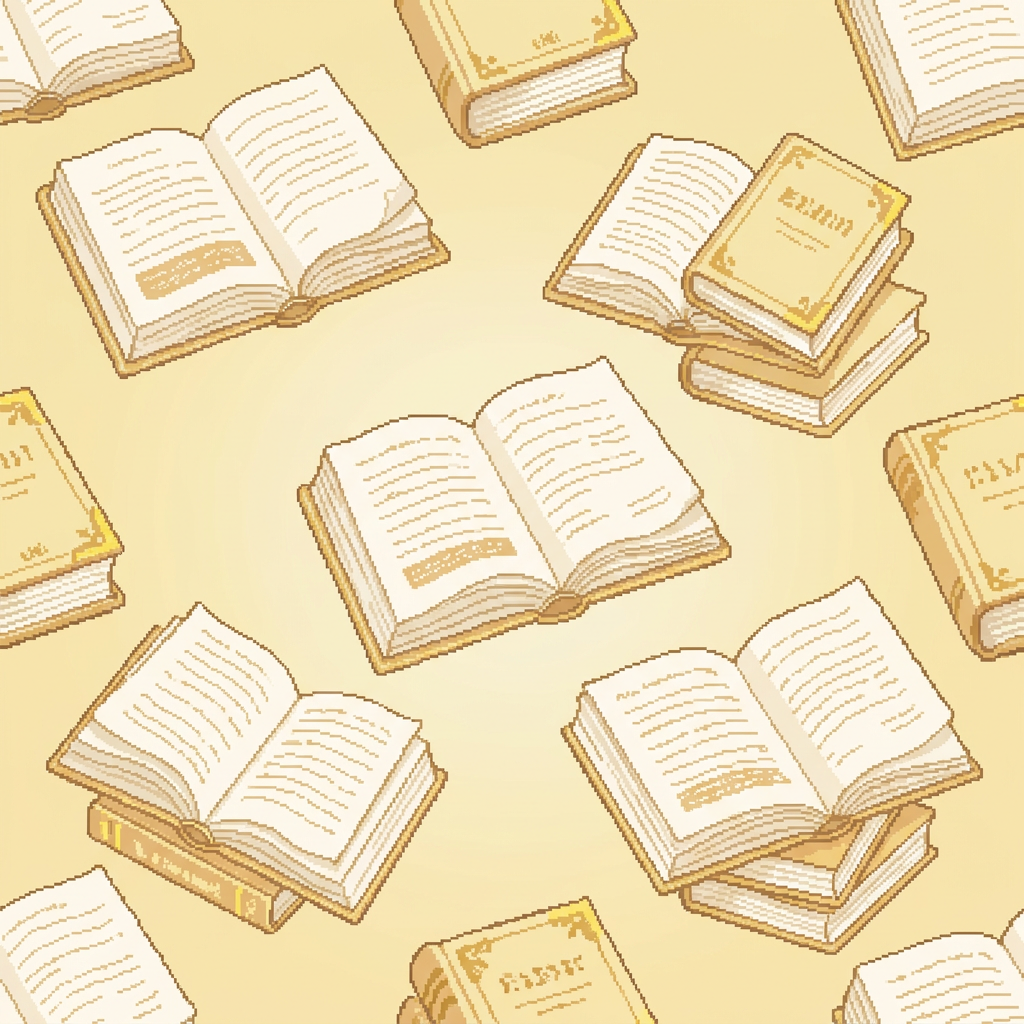
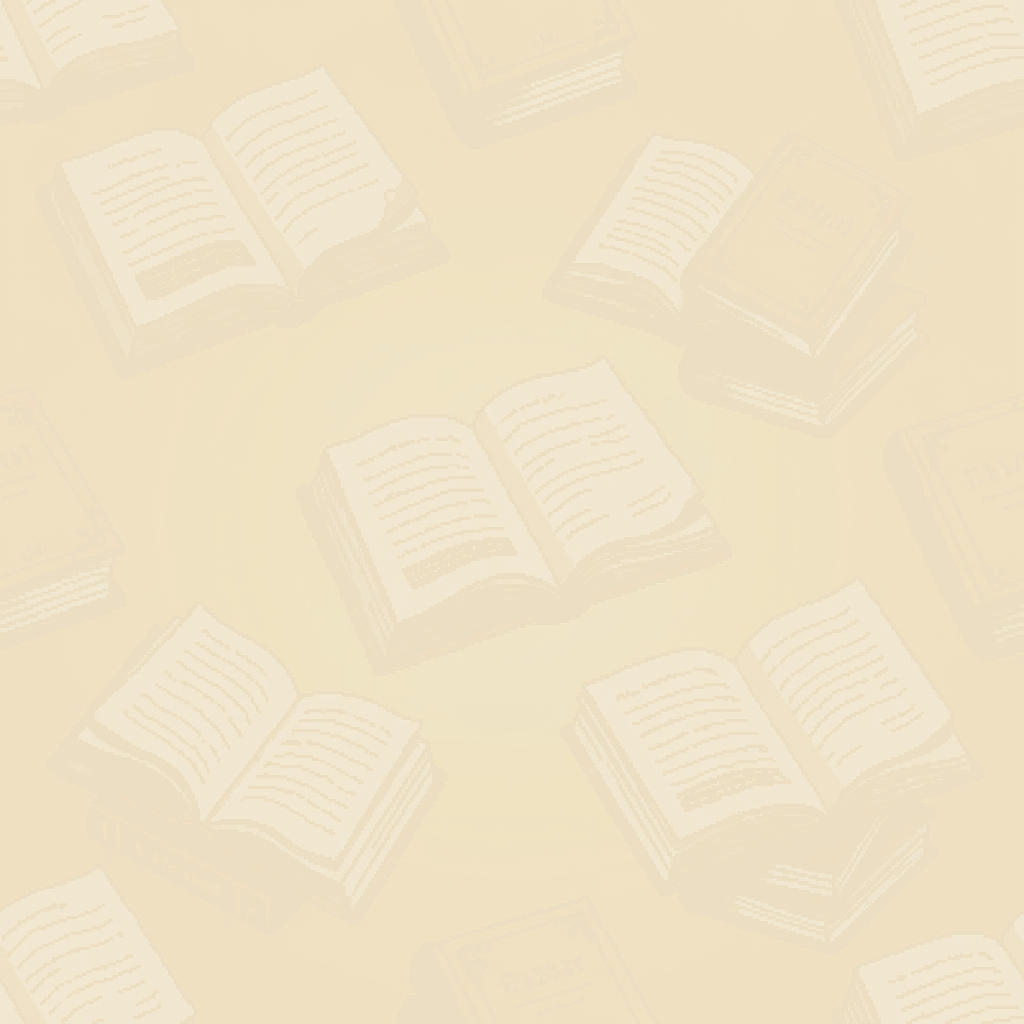
Correccion en el bg

diff --git a/css/styles.css b/css/styles.css
@@ -4,8 +4,6 @@ body{
     background-position: center;
     background-attachment: fixed;
     background-size:contain;
-    background-color: rgba(250, 234, 177, 0.861);
-    background-blend-mode:lighten;
     font-family: monospace;
 }
 
